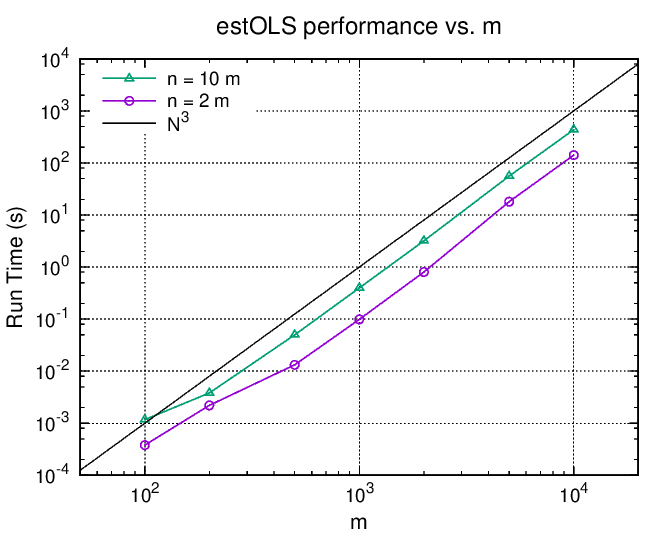
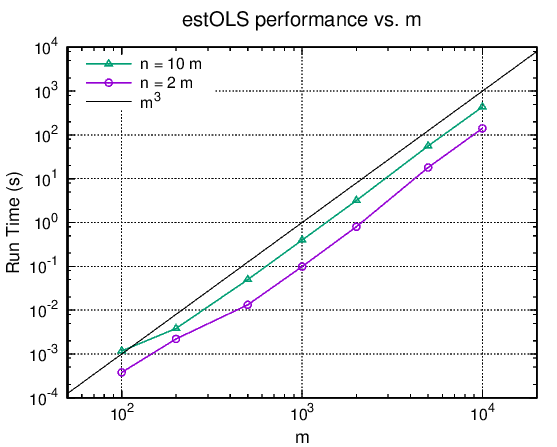
Updated plot, added scaling

diff --git a/README.md b/README.md
@@ -47,7 +47,7 @@ or
 Here's how to do that.
 
 ## Performance
-We ran this code on a set of random inputs (both regression matrix and observations [-1..1]) in double precision using the normal equations solution method and timed the calculation on an AMD Ryzen 9 3950X. One set of problems set the number of observations to be 2 times the number of independent variables, and a second set used a factor of 10. The performance for a variety of problem sizes (number of independent variables m) appears below.
+We ran this code on a set of random inputs (both regression matrix and observations [-1..1]) in double precision using the normal equations solution method and timed the calculation on an AMD Ryzen 9 3950X. One set of problems set the number of observations to be 2 times the number of independent variables, and a second set used a factor of 10. The performance for a variety of problem sizes (number of independent variables m) appears below. Total run time seems to scale as O(m^3 n^{0.75}).
 
 m     | n      | time (sec) | n      | time (sec)
 ------|--------|------------|--------|-----------
